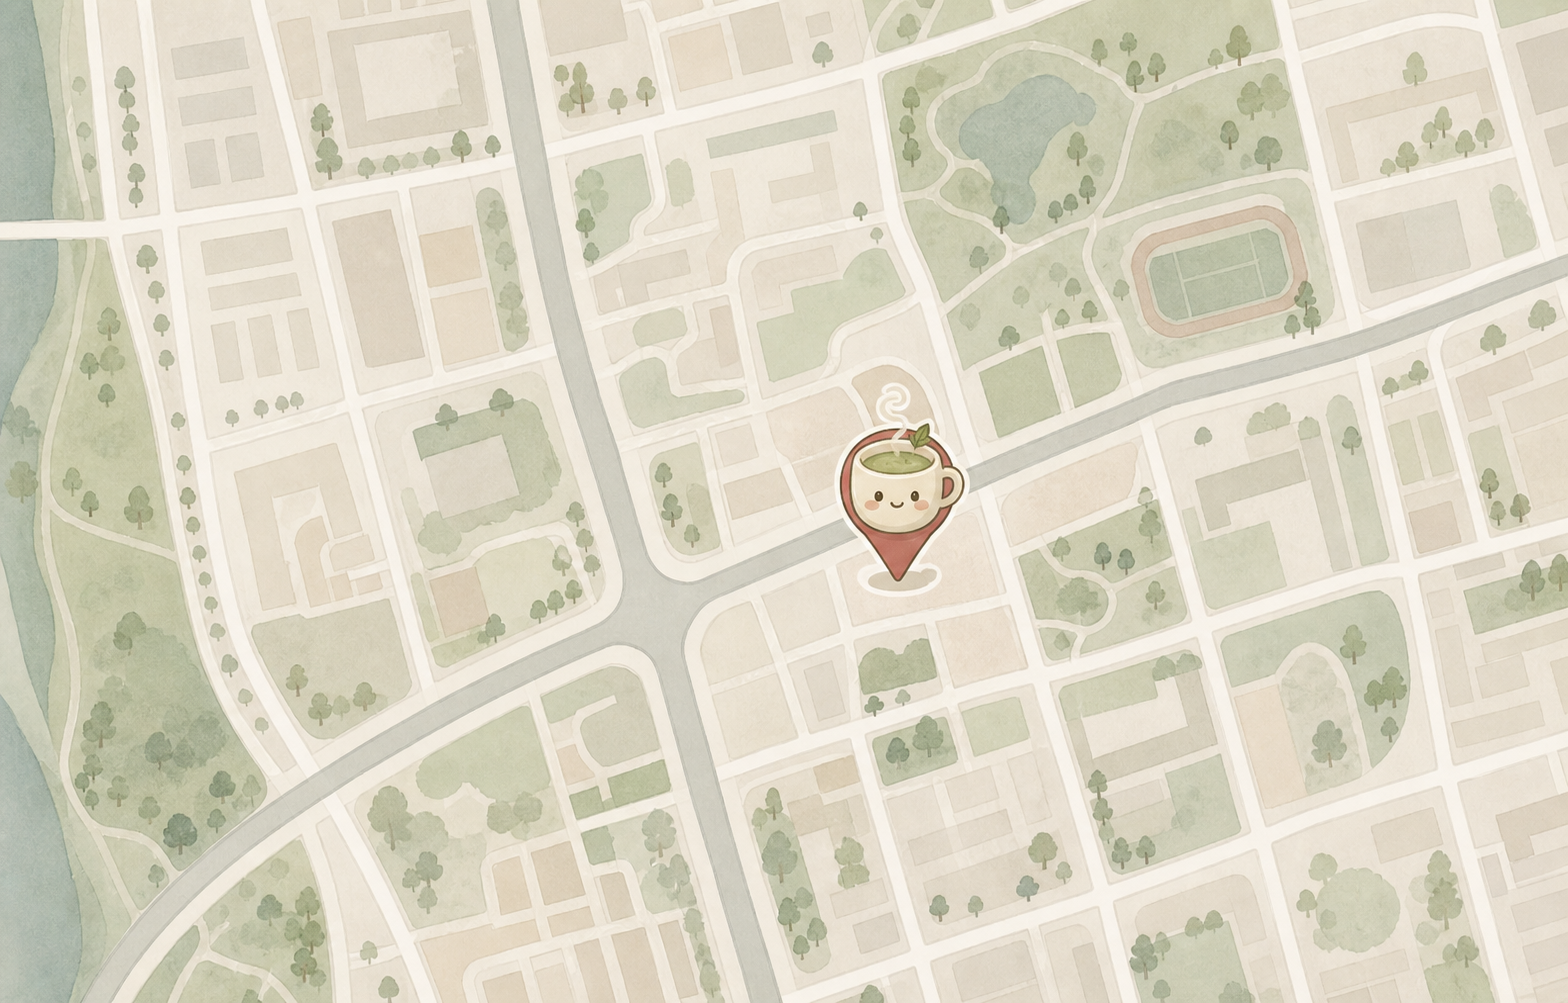
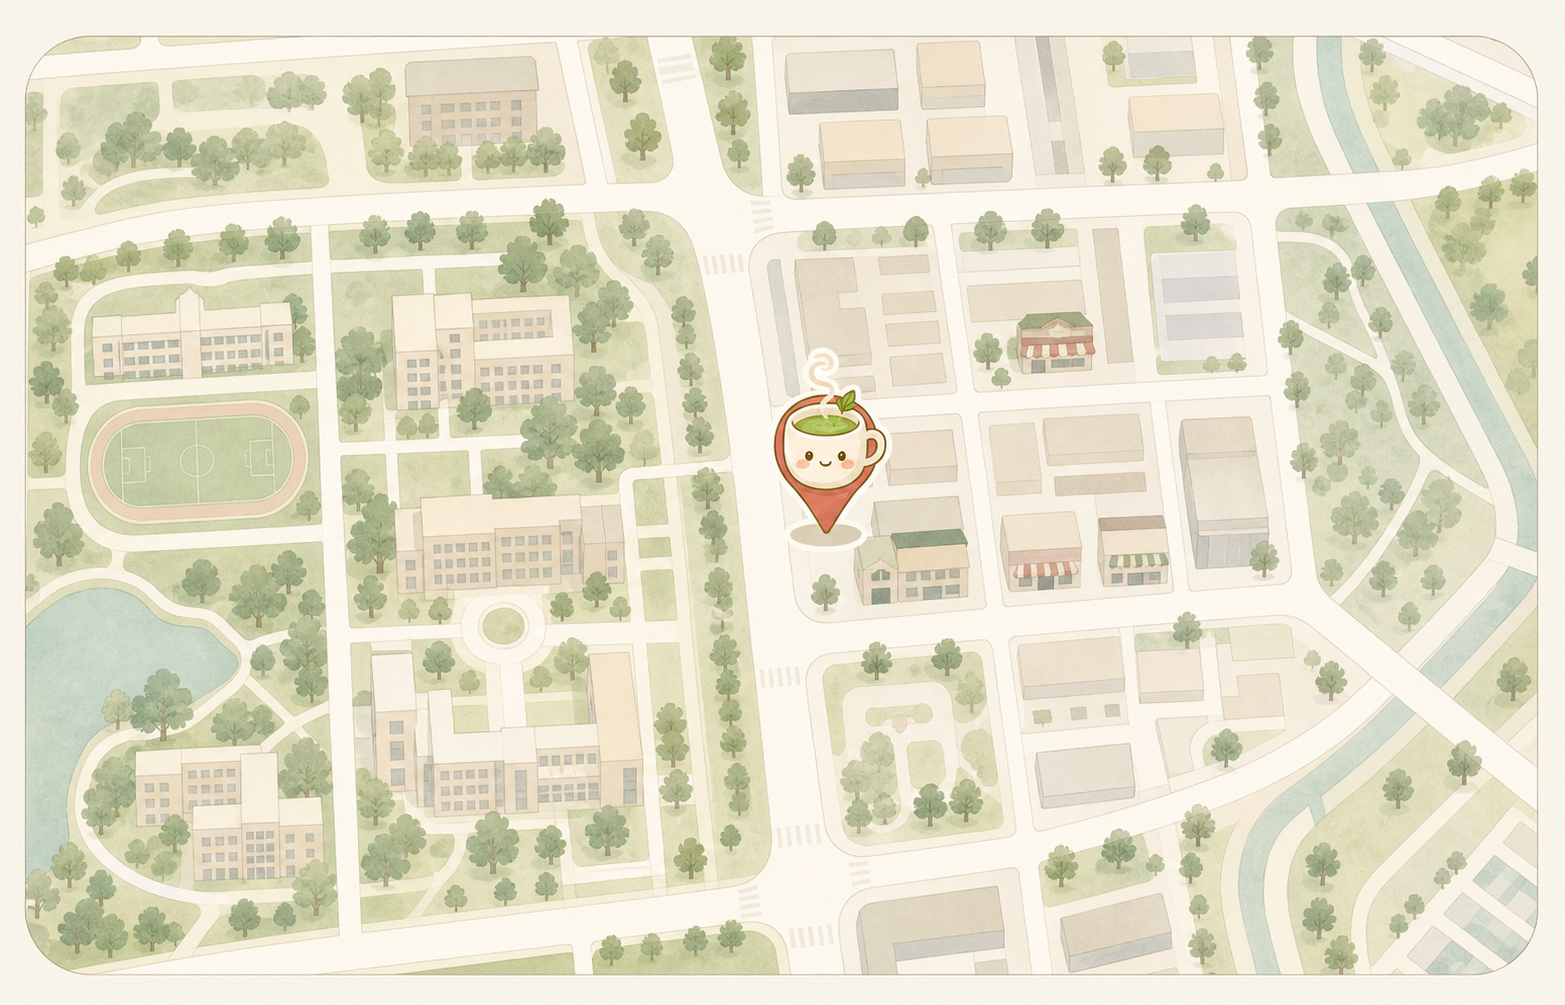
Refine store map location details

diff --git a/index.html b/index.html
@@ -362,7 +362,7 @@
 
     <!-- 门店位置区 -->
     <section id="store" class="mb-5">
-      <div class="grid grid-cols-1 gap-4 lg:grid-cols-[0.9fr_1.1fr]">
+      <div class="grid grid-cols-1 gap-4 lg:grid-cols-[0.82fr_1.18fr]">
         <div data-animation-on-scroll class="rounded-card bg-rice p-8 shadow-card sm:p-10">
           <p class="mb-4 text-sm tracking-[0.3em] text-wood">门店体验</p>
           <h2 class="font-title text-4xl font-semibold leading-tight text-teaGreen">到店坐一盏茶</h2>
@@ -373,11 +373,12 @@
           <div class="mt-7 space-y-4">
             <div class="rounded-[14px] bg-teaCard p-4">
               <p class="text-xs tracking-[0.18em] text-muted">门店名称</p>
-              <p class="mt-2 font-title text-xl font-semibold text-teaGreen">客官请喝茶 · 广州学府茶铺</p>
+              <p class="mt-2 font-title text-xl font-semibold text-teaGreen">客官请喝茶 · 南方学院茶铺</p>
             </div>
             <div class="rounded-[14px] bg-teaCard p-4">
               <p class="text-xs tracking-[0.18em] text-muted">门店地址</p>
-              <p class="mt-2 text-sm leading-7 text-ink">广州市从化区广州南方学院 学府路</p>
+              <p class="mt-2 text-sm leading-7 text-ink">广东省广州市从化区温泉镇温泉大道882号广州南方学院内，博学路 · 蜜雪冰城附近</p>
+              <p class="mt-2 text-xs leading-6 text-muted">定位关键词：广州南方学院 / 博学路 / 蜜雪冰城 / 温泉大道882号</p>
             </div>
             <div class="grid grid-cols-1 gap-4 sm:grid-cols-2">
               <div class="rounded-[14px] bg-teaCard p-4">
@@ -392,13 +393,21 @@
           </div>
 
           <div class="mt-7 flex flex-col gap-3 sm:flex-row">
-            <a href="https://uri.amap.com/search?keyword=%E5%B9%BF%E5%B7%9E%E5%8D%97%E6%96%B9%E5%AD%A6%E9%99%A2%20%E5%AD%A6%E5%BA%9C%E8%B7%AF&city=%E5%B9%BF%E5%B7%9E&view=map" target="_blank" rel="noopener" class="inline-flex items-center justify-center rounded-full bg-teaGreen px-7 py-3 text-sm font-medium text-rice transition hover:bg-footerGreen">打开地图导航</a>
+            <a href="https://map.baidu.com/search/%E5%B9%BF%E5%B7%9E%E5%8D%97%E6%96%B9%E5%AD%A6%E9%99%A2%20%E5%8D%9A%E5%AD%A6%E8%B7%AF%20%E8%9C%9C%E9%9B%AA%E5%86%B0%E5%9F%8E" target="_blank" rel="noopener" class="inline-flex items-center justify-center rounded-full bg-teaGreen px-7 py-3 text-sm font-medium text-rice transition hover:bg-footerGreen">打开地图导航</a>
+            <a href="https://map.qq.com/m/search/result/word=%E5%B9%BF%E5%B7%9E%E5%8D%97%E6%96%B9%E5%AD%A6%E9%99%A2%20%E5%8D%9A%E5%AD%A6%E8%B7%AF%20%E8%9C%9C%E9%9B%AA%E5%86%B0%E5%9F%8E" target="_blank" rel="noopener" class="inline-flex items-center justify-center rounded-full border border-teaGreen/35 px-7 py-3 text-sm font-medium text-teaGreen transition hover:bg-teaCard">腾讯地图</a>
             <a href="#member-contact" class="inline-flex items-center justify-center rounded-full border border-teaGreen/35 px-7 py-3 text-sm font-medium text-teaGreen transition hover:bg-teaCard">预约茶席</a>
           </div>
         </div>
 
-        <div data-animation-on-scroll class="image-frame overflow-hidden rounded-card bg-teaCard shadow-soft">
-          <img src="assets/store-map.png" alt="客官请喝茶广州学府茶铺地图示意图" class="h-full min-h-[360px] w-full object-cover" onerror="this.style.display='none'; this.parentElement.classList.add('image-missing');">
+        <div data-animation-on-scroll class="image-frame relative min-h-[440px] overflow-hidden rounded-card bg-teaCard shadow-soft lg:min-h-[520px]">
+          <img src="assets/store-map.png" alt="客官请喝茶南方学院茶铺地图示意图" class="h-full min-h-[440px] w-full scale-110 object-cover lg:min-h-[520px]" onerror="this.style.display='none'; this.parentElement.classList.add('image-missing');">
+          <div class="pointer-events-none absolute inset-0 text-xs font-medium">
+            <span class="absolute left-[8%] top-[13%] rounded-full bg-rice/92 px-3 py-2 text-teaGreen shadow-card backdrop-blur">广州南方学院</span>
+            <span class="absolute left-[44%] top-[10%] rounded-full bg-rice/92 px-3 py-2 text-teaGreen shadow-card backdrop-blur">博学路</span>
+            <span class="absolute right-[8%] top-[28%] rounded-full bg-rice/92 px-3 py-2 text-teaGreen shadow-card backdrop-blur">蜜雪冰城附近</span>
+            <span class="absolute bottom-[13%] left-[7%] hidden rounded-full bg-rice/92 px-3 py-2 text-teaGreen shadow-card backdrop-blur sm:inline-flex">温泉大道882号</span>
+            <span class="absolute left-[48%] top-[52%] rounded-full bg-teaGreen px-4 py-2 text-rice shadow-card">客官请喝茶</span>
+          </div>
         </div>
       </div>
     </section>

diff --git a/outputs/index.html b/outputs/index.html
@@ -362,7 +362,7 @@
 
     <!-- 门店位置区 -->
     <section id="store" class="mb-5">
-      <div class="grid grid-cols-1 gap-4 lg:grid-cols-[0.9fr_1.1fr]">
+      <div class="grid grid-cols-1 gap-4 lg:grid-cols-[0.82fr_1.18fr]">
         <div data-animation-on-scroll class="rounded-card bg-rice p-8 shadow-card sm:p-10">
           <p class="mb-4 text-sm tracking-[0.3em] text-wood">门店体验</p>
           <h2 class="font-title text-4xl font-semibold leading-tight text-teaGreen">到店坐一盏茶</h2>
@@ -373,11 +373,12 @@
           <div class="mt-7 space-y-4">
             <div class="rounded-[14px] bg-teaCard p-4">
               <p class="text-xs tracking-[0.18em] text-muted">门店名称</p>
-              <p class="mt-2 font-title text-xl font-semibold text-teaGreen">客官请喝茶 · 广州学府茶铺</p>
+              <p class="mt-2 font-title text-xl font-semibold text-teaGreen">客官请喝茶 · 南方学院茶铺</p>
             </div>
             <div class="rounded-[14px] bg-teaCard p-4">
               <p class="text-xs tracking-[0.18em] text-muted">门店地址</p>
-              <p class="mt-2 text-sm leading-7 text-ink">广州市从化区广州南方学院 学府路</p>
+              <p class="mt-2 text-sm leading-7 text-ink">广东省广州市从化区温泉镇温泉大道882号广州南方学院内，博学路 · 蜜雪冰城附近</p>
+              <p class="mt-2 text-xs leading-6 text-muted">定位关键词：广州南方学院 / 博学路 / 蜜雪冰城 / 温泉大道882号</p>
             </div>
             <div class="grid grid-cols-1 gap-4 sm:grid-cols-2">
               <div class="rounded-[14px] bg-teaCard p-4">
@@ -392,13 +393,21 @@
           </div>
 
           <div class="mt-7 flex flex-col gap-3 sm:flex-row">
-            <a href="https://uri.amap.com/search?keyword=%E5%B9%BF%E5%B7%9E%E5%8D%97%E6%96%B9%E5%AD%A6%E9%99%A2%20%E5%AD%A6%E5%BA%9C%E8%B7%AF&city=%E5%B9%BF%E5%B7%9E&view=map" target="_blank" rel="noopener" class="inline-flex items-center justify-center rounded-full bg-teaGreen px-7 py-3 text-sm font-medium text-rice transition hover:bg-footerGreen">打开地图导航</a>
+            <a href="https://map.baidu.com/search/%E5%B9%BF%E5%B7%9E%E5%8D%97%E6%96%B9%E5%AD%A6%E9%99%A2%20%E5%8D%9A%E5%AD%A6%E8%B7%AF%20%E8%9C%9C%E9%9B%AA%E5%86%B0%E5%9F%8E" target="_blank" rel="noopener" class="inline-flex items-center justify-center rounded-full bg-teaGreen px-7 py-3 text-sm font-medium text-rice transition hover:bg-footerGreen">打开地图导航</a>
+            <a href="https://map.qq.com/m/search/result/word=%E5%B9%BF%E5%B7%9E%E5%8D%97%E6%96%B9%E5%AD%A6%E9%99%A2%20%E5%8D%9A%E5%AD%A6%E8%B7%AF%20%E8%9C%9C%E9%9B%AA%E5%86%B0%E5%9F%8E" target="_blank" rel="noopener" class="inline-flex items-center justify-center rounded-full border border-teaGreen/35 px-7 py-3 text-sm font-medium text-teaGreen transition hover:bg-teaCard">腾讯地图</a>
             <a href="#member-contact" class="inline-flex items-center justify-center rounded-full border border-teaGreen/35 px-7 py-3 text-sm font-medium text-teaGreen transition hover:bg-teaCard">预约茶席</a>
           </div>
         </div>
 
-        <div data-animation-on-scroll class="image-frame overflow-hidden rounded-card bg-teaCard shadow-soft">
-          <img src="assets/store-map.png" alt="客官请喝茶广州学府茶铺地图示意图" class="h-full min-h-[360px] w-full object-cover" onerror="this.style.display='none'; this.parentElement.classList.add('image-missing');">
+        <div data-animation-on-scroll class="image-frame relative min-h-[440px] overflow-hidden rounded-card bg-teaCard shadow-soft lg:min-h-[520px]">
+          <img src="assets/store-map.png" alt="客官请喝茶南方学院茶铺地图示意图" class="h-full min-h-[440px] w-full scale-110 object-cover lg:min-h-[520px]" onerror="this.style.display='none'; this.parentElement.classList.add('image-missing');">
+          <div class="pointer-events-none absolute inset-0 text-xs font-medium">
+            <span class="absolute left-[8%] top-[13%] rounded-full bg-rice/92 px-3 py-2 text-teaGreen shadow-card backdrop-blur">广州南方学院</span>
+            <span class="absolute left-[44%] top-[10%] rounded-full bg-rice/92 px-3 py-2 text-teaGreen shadow-card backdrop-blur">博学路</span>
+            <span class="absolute right-[8%] top-[28%] rounded-full bg-rice/92 px-3 py-2 text-teaGreen shadow-card backdrop-blur">蜜雪冰城附近</span>
+            <span class="absolute bottom-[13%] left-[7%] hidden rounded-full bg-rice/92 px-3 py-2 text-teaGreen shadow-card backdrop-blur sm:inline-flex">温泉大道882号</span>
+            <span class="absolute left-[48%] top-[52%] rounded-full bg-teaGreen px-4 py-2 text-rice shadow-card">客官请喝茶</span>
+          </div>
         </div>
       </div>
     </section>
